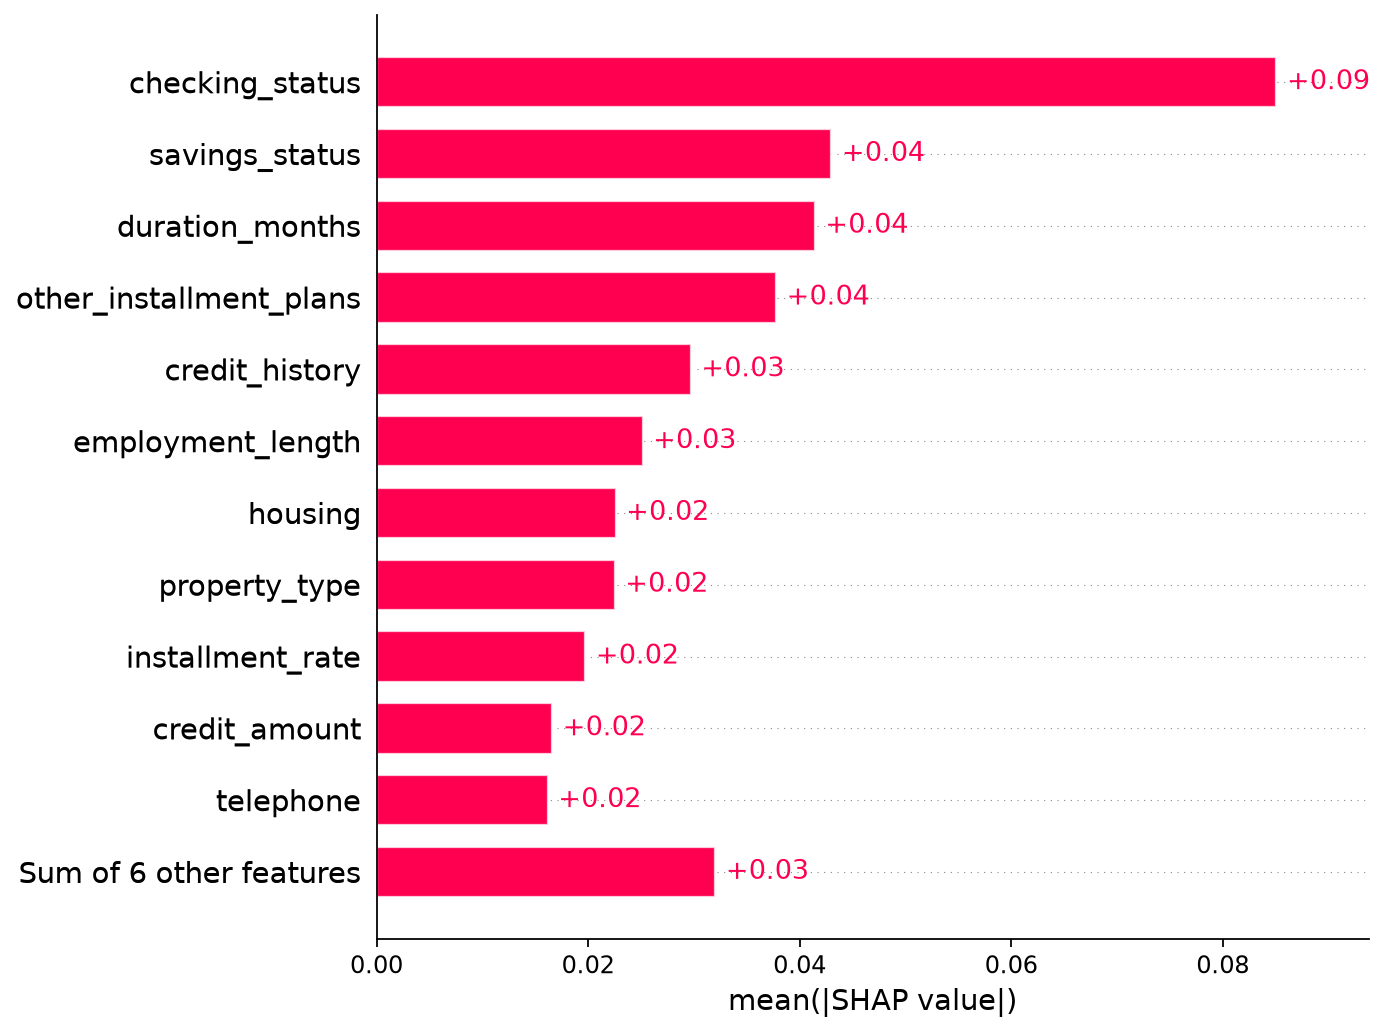
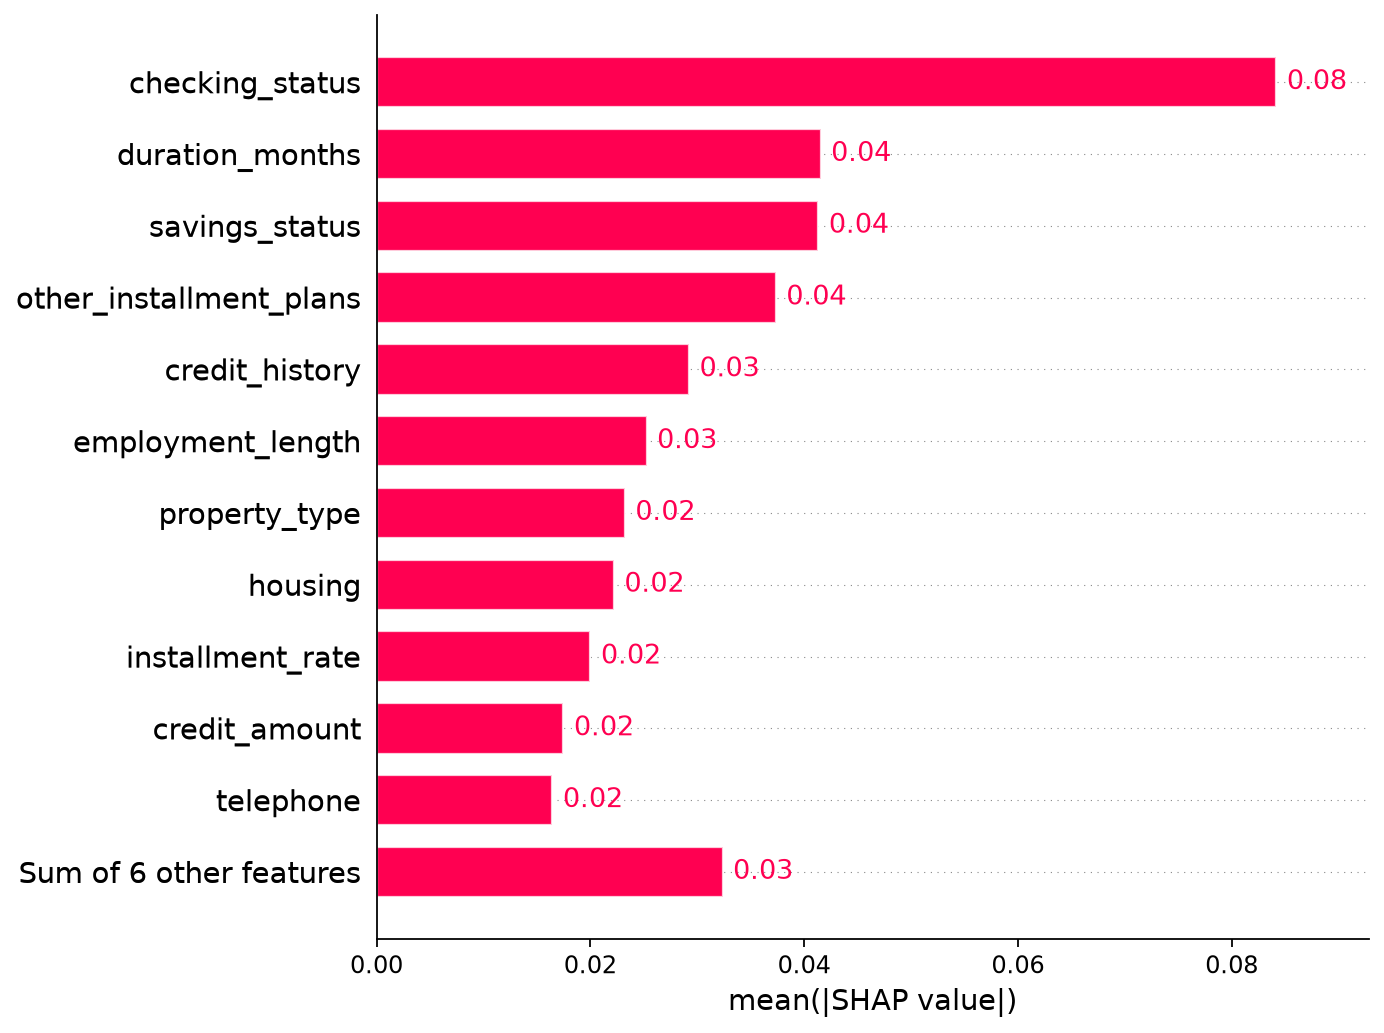
Improve SHAP interpretation and visualization

diff --git a/src/explication_shap.py b/src/explication_shap.py
@@ -87,8 +87,17 @@ def main(n_explain=30, n_background=20):
     reports.mkdir(exist_ok=True)
     plt.figure()
     shap.plots.bar(explanation, max_display=12, show=False)
+
+    # Supprimer les signes + des importances absolues SHAP
+    for ax in plt.gcf().axes:
+        for texte in ax.texts:
+            valeur = texte.get_text()
+            if valeur.startswith("+"):
+                texte.set_text(valeur[1:])
+
     plt.savefig(reports / "shap_global.png", dpi=160, bbox_inches="tight")
     plt.close("all")
+
     plt.figure()
     shap.plots.waterfall(explanation[0], max_display=12, show=False)
     plt.savefig(reports / "shap_individuel.png", dpi=160, bbox_inches="tight")

diff --git a/README.md b/README.md
@@ -14,6 +14,15 @@
 ### Explainable AI — SHAP Feature Importance
 
 ![SHAP Global Importance](reports/shap_global.png)
+
+**Interpretation:** Global feature importance is measured
+using the mean absolute SHAP value across 30 sampled
+validation observations. Larger values indicate a
+stronger average contribution to model predictions,
+without indicating whether a variable increases or
+decreases predicted risk. SHAP explanations describe
+model behavior, not causal relationships.
+
 ## Business question
 
 Can we distinguish historical *bad credit risk* from *good credit risk*, estimate probabilities responsibly, and explain the model's predictions? We compare a statistical baseline (logistic regression) against a Random Forest, each probability-calibrated using training-only cross-validation, then select a model and a decision threshold **using validation data only**.
